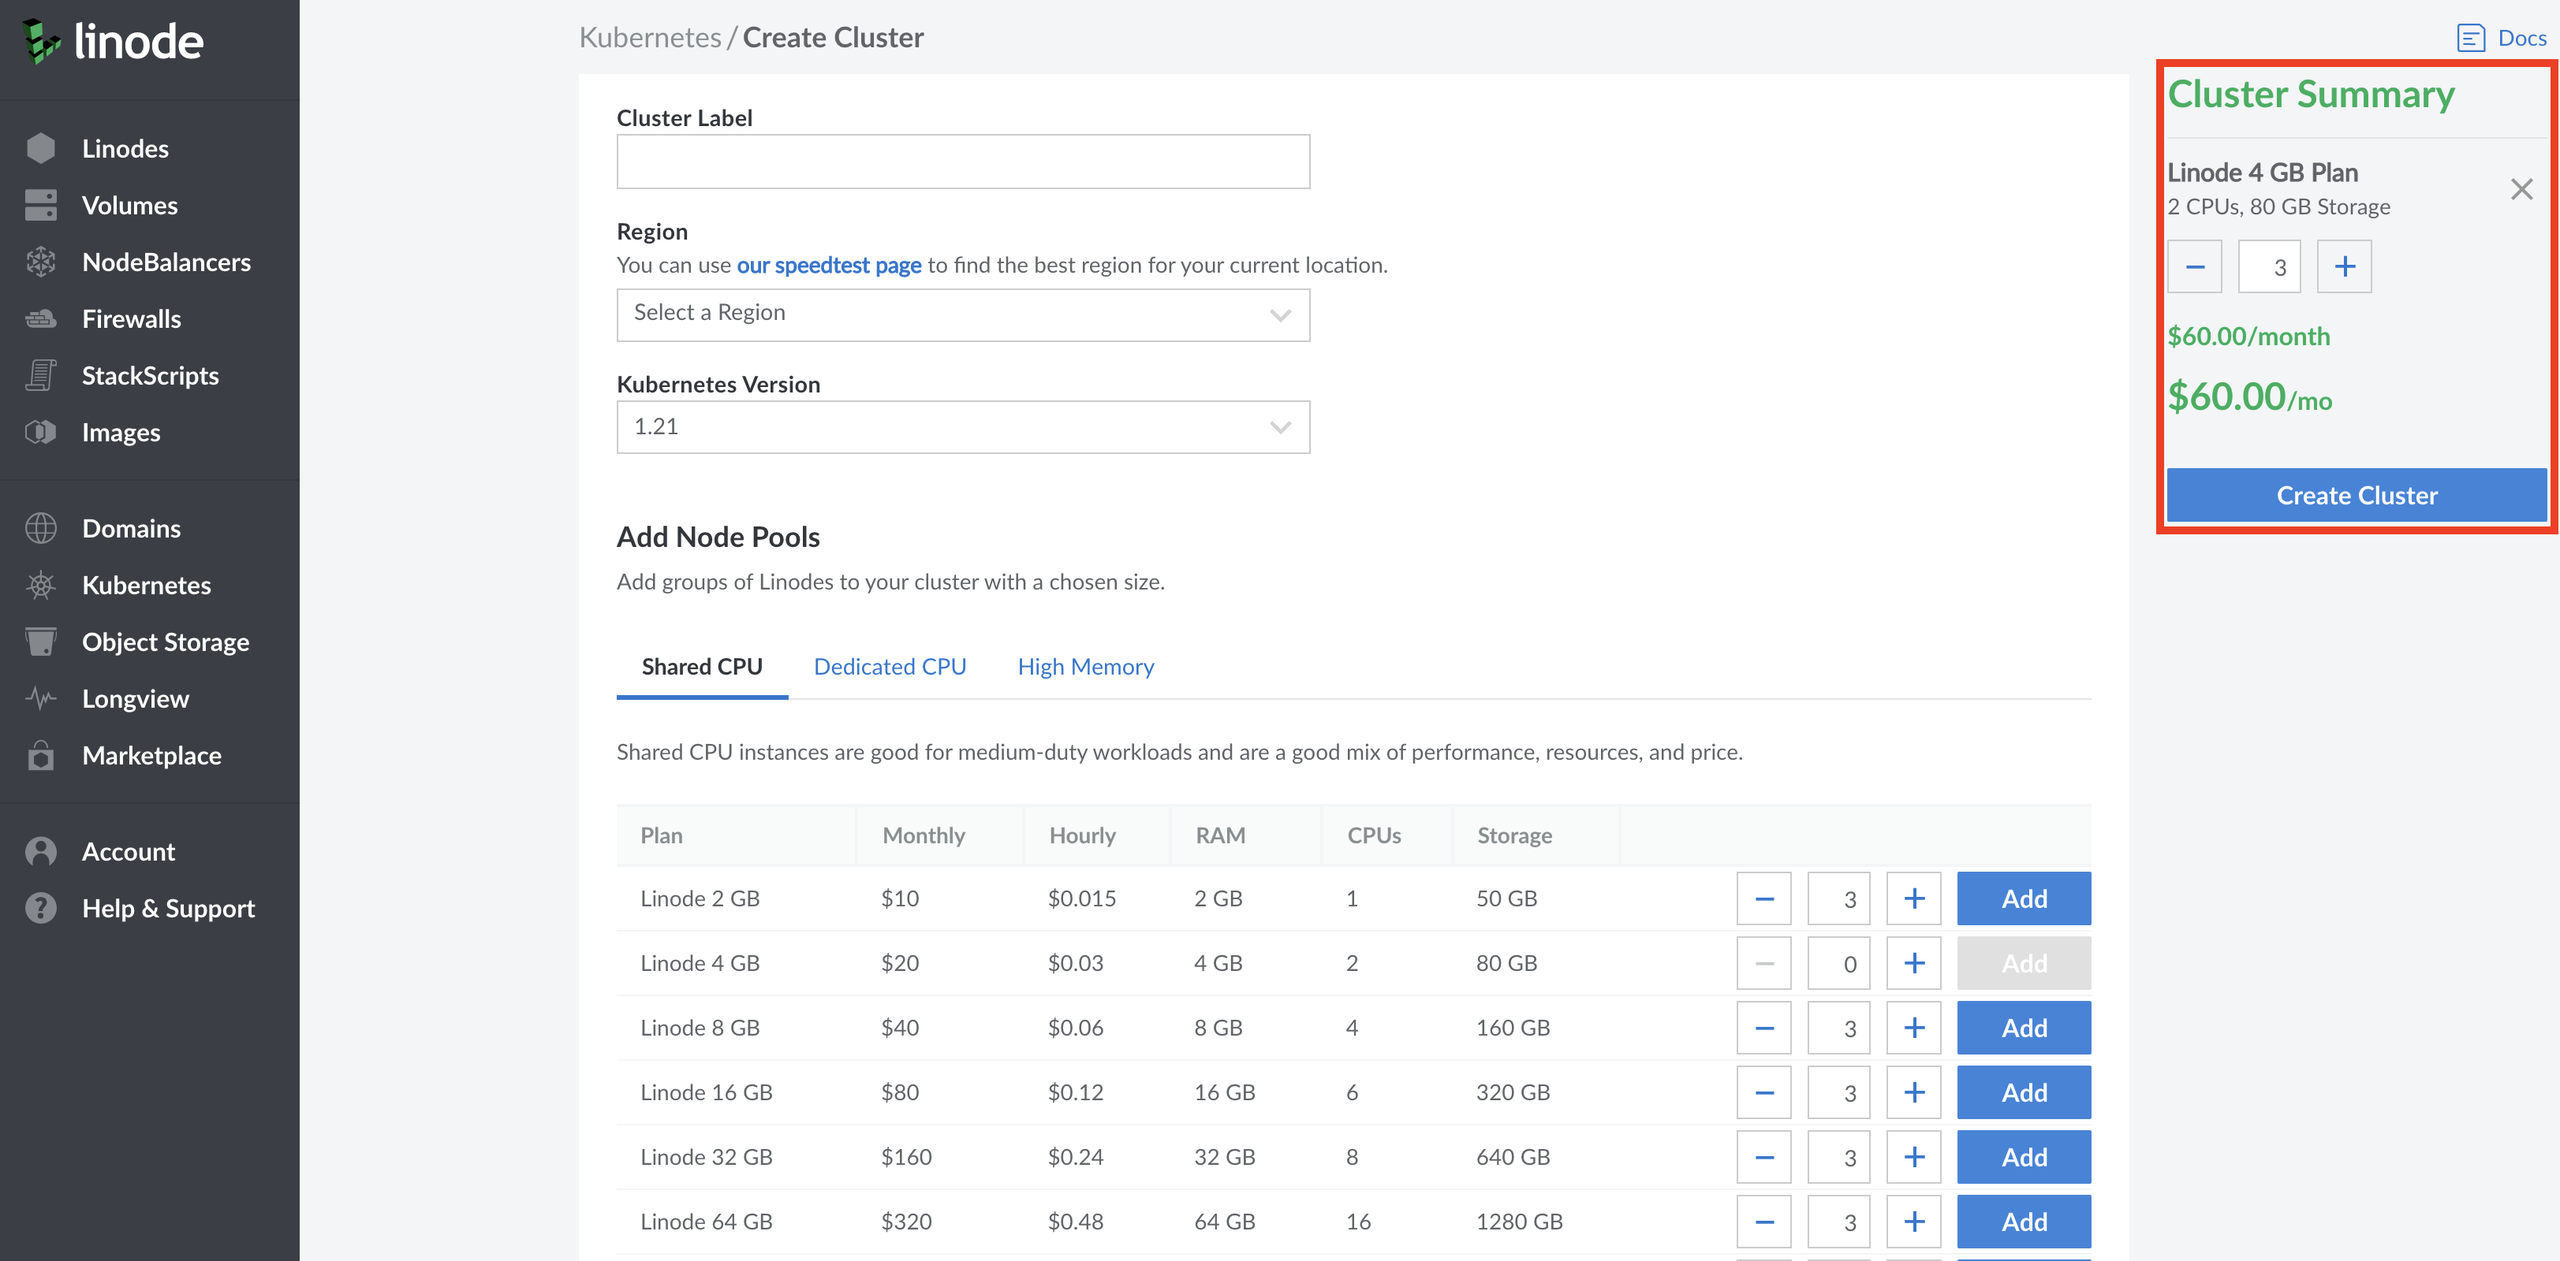
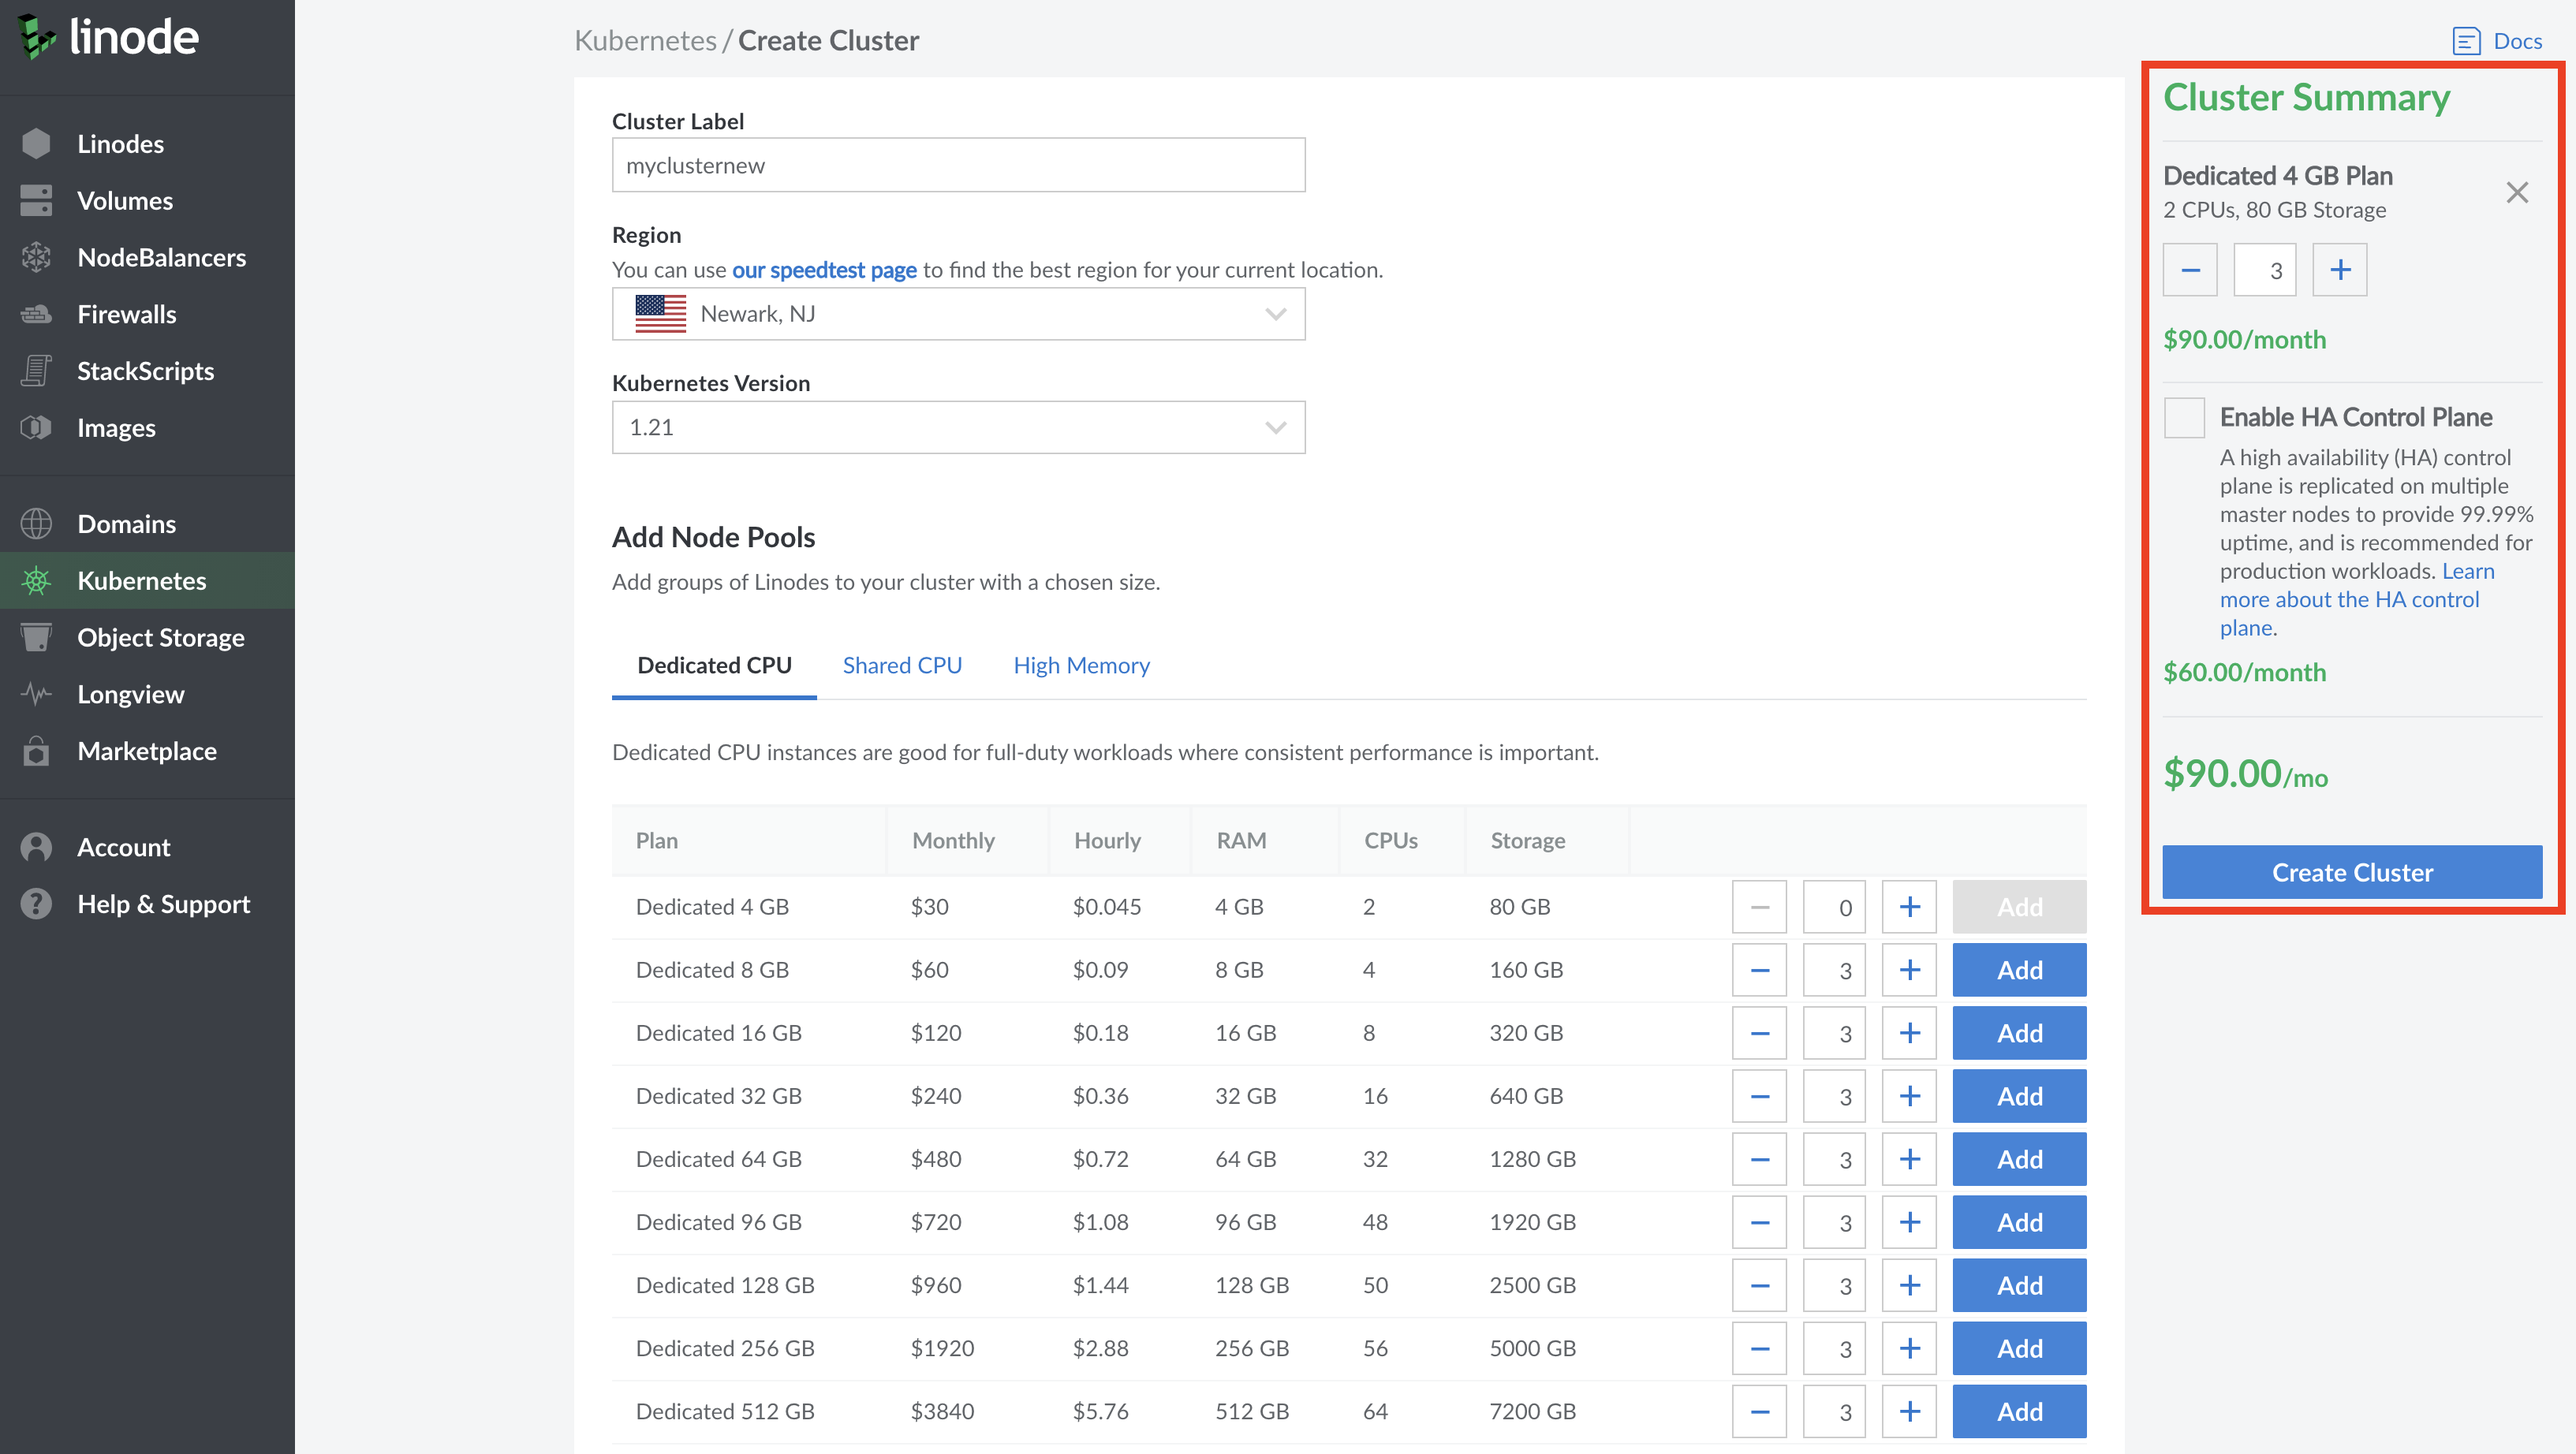
[Hotfix] v1.116.1

diff --git a/docs/guides/kubernetes/deploy-and-manage-a-cluster-with-linode-kubernetes-engine-a-tutorial/index.md b/docs/guides/kubernetes/deploy-and-manage-a-cluster-with-linode-kubernetes-engine-a-tutorial/index.md
@@ -262,6 +262,52 @@ In cases where access to a cluster using a current kubeconfig must be revoked, L
 
 A new kubeconfig will now be created. Once this process is completed, the new kubeconfig can be [Accessed and Downloaded](/docs/guides/deploy-and-manage-a-cluster-with-linode-kubernetes-engine-a-tutorial/#access-and-download-your-kubeconfig) as usual.
 
+## Enable High Availability
+
+In LKE, enabling HA ([High Availability](/docs/guides/introduction-to-high-availability/)) will create additional replicas of your [control plane components](/docs/guides/beginners-guide-to-kubernetes-part-2-master-nodes-control-plane/), adding an additional layer of redundancy to your Kubernetes Cluster and decreasing the chance of any potential downtime. HA is an optional feature recommended for production workloads that must be enabled manually either when creating a new cluster or by editing a pre-existing cluster.
+
+Unlike other LKE configuration options, High Availability is an **optional billable service** that will increase the overall operating cost of your cluster. For more information see our [pricing page](https://www.linode.com/pricing/).
+
+{{< caution >}}
+While upgrading to an HA cluster is always possible, **downgrading your cluster is not currently supported**. Enabling HA is an **irreversible** change for your cluster.
+{{< /caution >}}
+
+### Enabling HA During Cluster Creation
+
+High Availability can be enabled during [cluster creation](/docs/guides/deploy-and-manage-a-cluster-with-linode-kubernetes-engine-a-tutorial/#create-an-lke-cluster) from the **Create a Kubernetes Cluster** page at any time.
+
+1. From the **Create a Kubernetes Cluster** page, navigate to the **Cluster Summary** section.
+
+   ![LKE HA cluster enable](cluster-summary-ha-lke.png "Kubernetes HA upgrade enable.")
+
+1. Check the box next to the **Enable HA Control Plane option**.
+
+1. Create additional configuration options as desired for your configuration. When you are satisfied with the configuration of your cluster, click the **Create Cluster** button in the *Cluster Summary* section.
+
+   ![LKE HA cluster creation](create-cluster-ha.png "Kubernetes HA upgrade on Cluster Creation.")
+
+Your cluster’s detail page will appear on the following page where you will see your Node Pools listed. From this page, you can edit your existing Node Pools, access your Kubeconfig file, and view an overview of your cluster’s resource details.
+
+### Enabling HA on Existing Clusters
+
+High Availability can be added to pre-existing clusters at any given time through the cluster's **Summary Page**.
+
+1. To reach the summary page for the cluster, navigate first to the [Kubernetes section of the Cloud Manager](https://cloud.linode.com/kubernetes/clusters).
+
+1. Select the Cluster by label that you would like to enable HA for. The summary page for the cluster appears.
+
+1. To enable HA, select the **Upgrade to HA** button at the top of the page.
+
+   ![LKE HA cluster upgrade](upgrade-to-ha.png "Kubernetes HA upgrade.")
+
+1. A new window appears, asking you to confirm all of the changes that come with High Availability. Read through the message and select the **Enable HA Control Plane** checkbox to confirm that you agree to the changes. Then click the **Upgrade to HA** button.
+
+   ![LKE HA cluster enable](cluster-ha-enable.png "Kubernetes HA Cluster Enable.")
+
+All clusters that have HA enabled will have an HA Cluster watermark on their summary page.
+
+   ![LKE HA cluster watermark](ha-cluster-watermark.png "LKE HA cluster watermark.")
+
 ## Delete a Cluster
 
 {{< content "kubernetes-delete-cluster-shortguide" >}}

diff --git a/docs/products/compute/kubernetes/guides/enable-high-availability/index.md b/docs/products/compute/kubernetes/guides/enable-high-availability/index.md
@@ -1,0 +1,41 @@
+---
+author:
+  name: Linode
+  email: docs@linode.com
+title: High Availability
+description: "How to Enable High Availability for Linode Kubernetes Engine (LKE)"
+---
+
+### Enabling HA During Cluster Creation
+
+High Availability can be enabled during [cluster creation](/docs/guides/deploy-and-manage-a-cluster-with-linode-kubernetes-engine-a-tutorial/#create-an-lke-cluster) from the **Create a Kubernetes Cluster** page at any time.
+
+{{< caution >}}
+While upgrading to an HA cluster is always possible, **downgrading your cluster is not currently supported**. Enabling HA is an **irreversible** change for your cluster.
+{{< /caution >}}
+
+1. From the **Create a Kubernetes Cluster** page, navigate to the **Cluster Summary** section.
+
+1. Check the box next to the **Enable HA Control Plane option**.
+
+1. Create additional configuration options as desired for your configuration. When you are satisfied with the configuration of your cluster, click the **Create Cluster** button in the *Cluster Summary* section.
+
+Your cluster’s detail page will appear on the following page where you will see your Node Pools listed. From this page, you can edit your existing Node Pools, access your Kubeconfig file, and view an overview of your cluster’s resource details.
+
+### Enabling HA on Existing Clusters
+
+High Availability can be added to pre-existing clusters at any given time through the cluster's **Summary Page**.
+
+{{< caution >}}
+While upgrading to an HA cluster is always possible, **downgrading your cluster is not currently supported**. Enabling HA is an **irreversible** change for your cluster.
+{{< /caution >}}
+
+1. To reach the summary page for the cluster, navigate first to the [Kubernetes section of the Cloud Manager](https://cloud.linode.com/kubernetes/clusters).
+
+1. Select the Cluster by label that you would like to enable HA for. The summary page for the cluster appears.
+
+1. To enable HA, select the **Upgrade to HA** button at the top of the page.
+
+1. A new window appears, asking you to confirm all of the changes that come with High Availability. Read through the message and select the **Enable HA Control Plane** checkbox to confirm that you agree to the changes. Then click the **Upgrade to HA** button.
+
+All clusters that have HA enabled will have an HA Cluster watermark on their summary page.

diff --git a/docs/products/compute/kubernetes/guides/_index.md b/docs/products/compute/kubernetes/guides/_index.md
@@ -23,6 +23,8 @@ tab_group_main:
 
 - [Reset Kubeconfig](/docs/products/compute/kubernetes/guides/reset-kubeconfig): Reset an LKE cluster's kubeconfig from the Cloud Manager.
 
+- [Enable High Availability](/docs/products/compute/kubernetes/guides/enable-high-availability): Enable High availability for your LKE cluster, creating additional replicas of your control plane components directly through the Cloud Manager.
+
 ## Themes
 
 These guides explore topics such as using Docker, networking, deploying websites, and using LKE with third-party tools.
